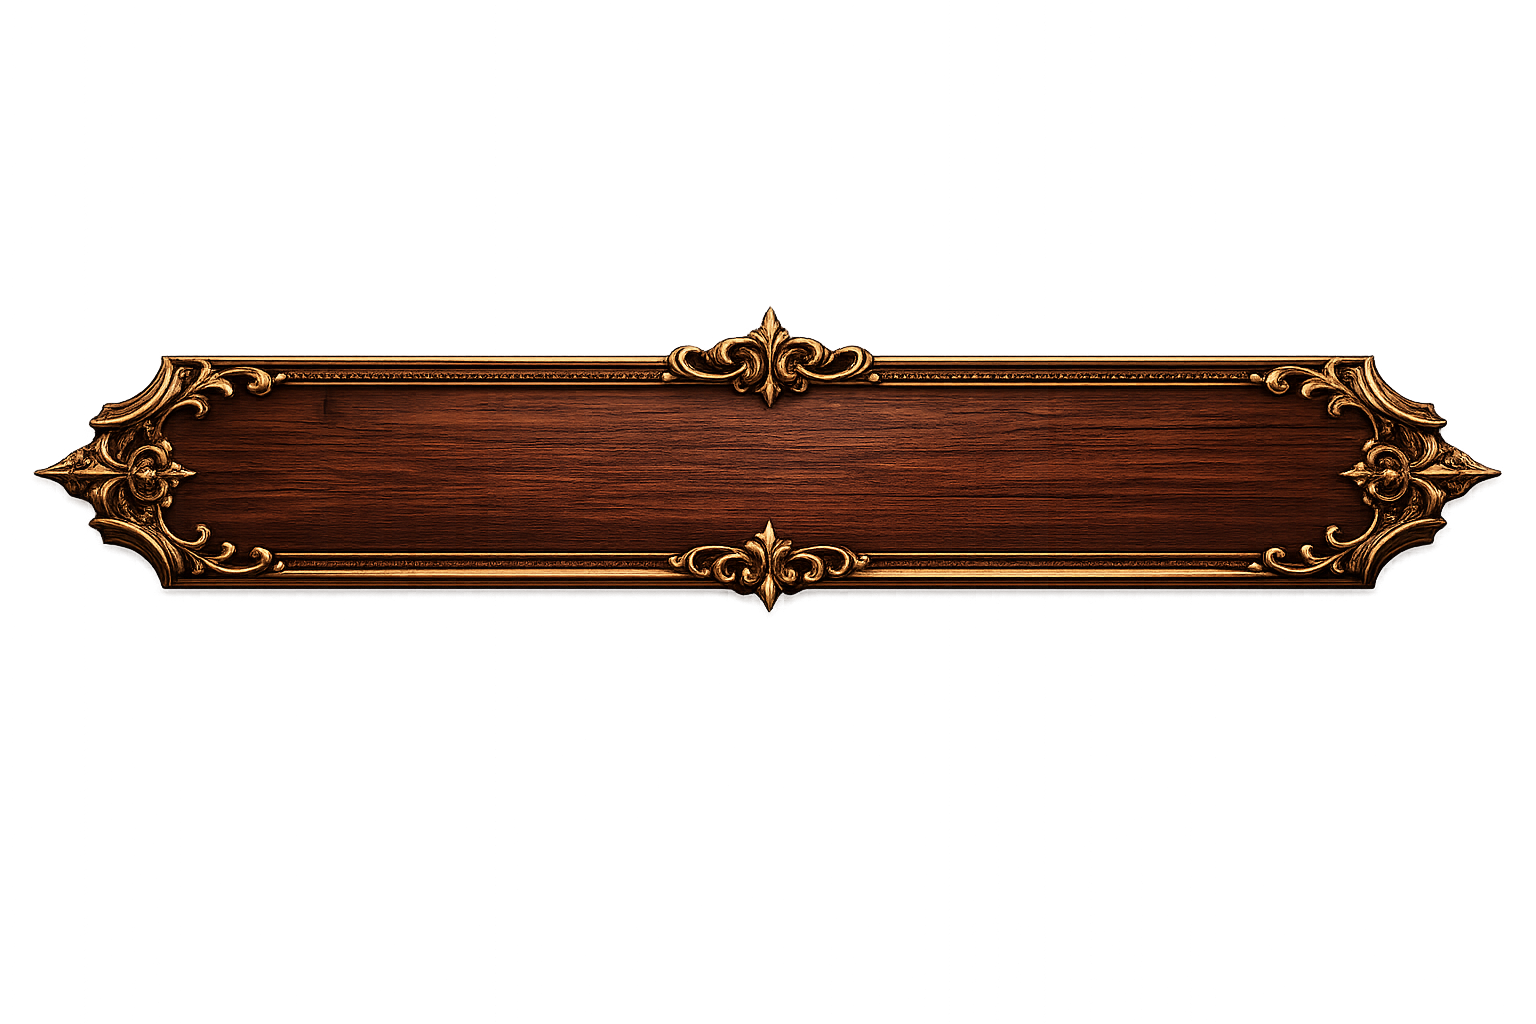
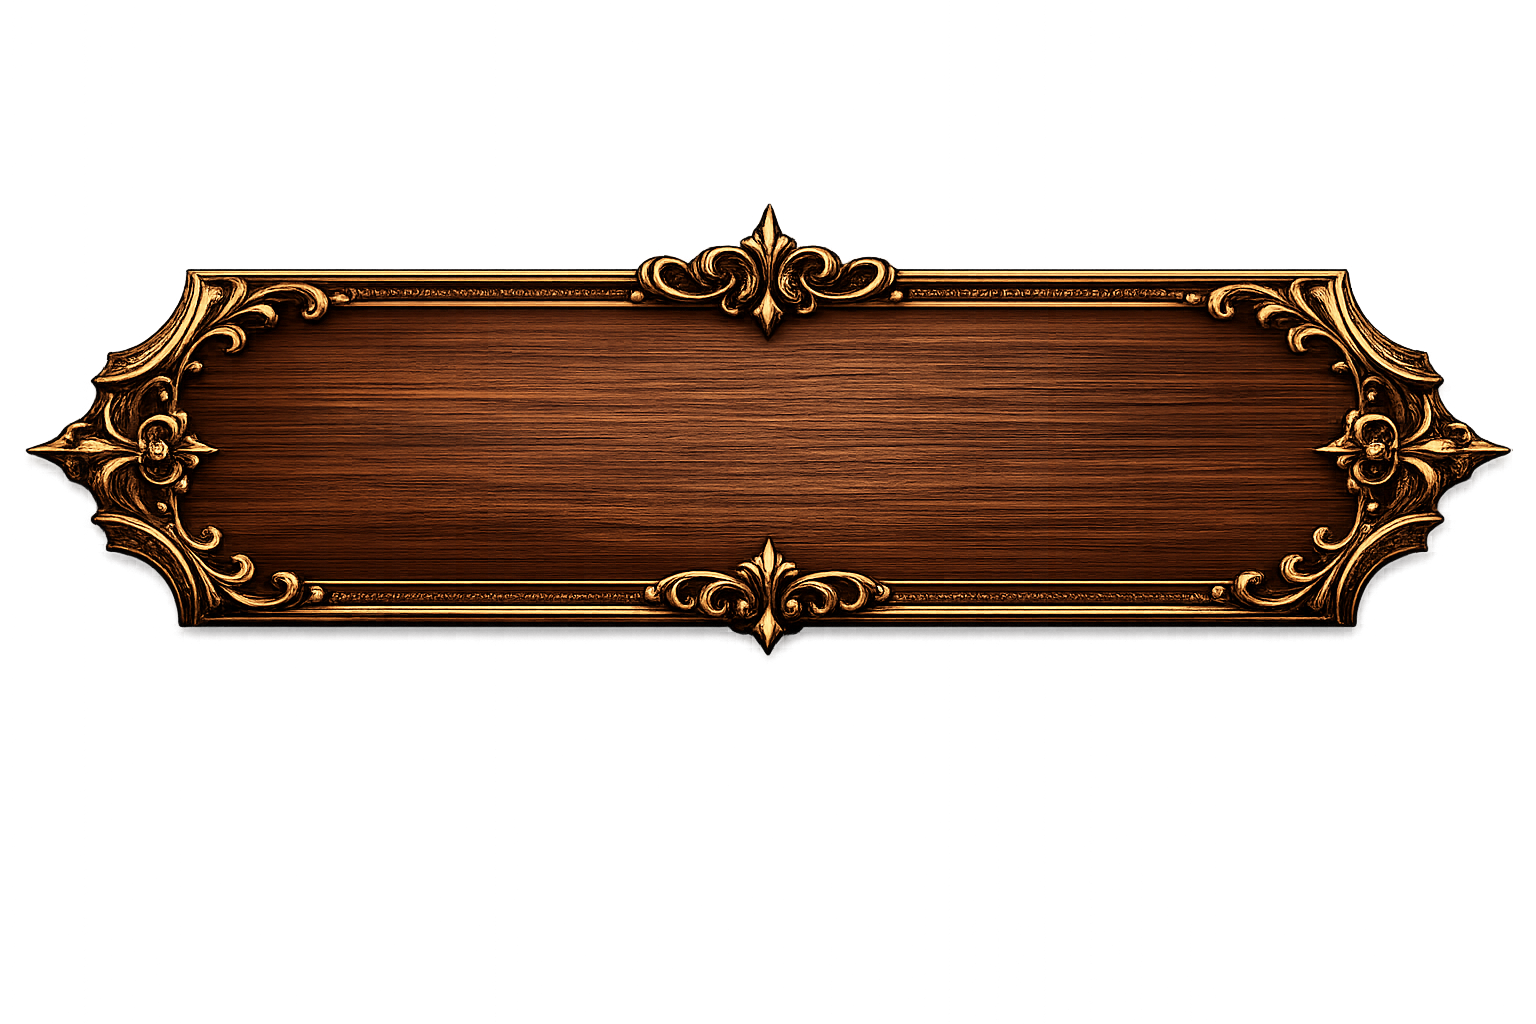
feat: introduce FrameToggle and update Collection page UI

Changed region(s): [[0.0, 0.2188, 1.0, 0.6562]]

diff --git a/app/collection/page.tsx b/app/collection/page.tsx
@@ -9,7 +9,7 @@ import { GameList } from "@/components/game-list"
 import { DiscoverGames } from "@/components/discover-games"
 import { ImportSection } from "@/components/import-section"
 import { ThemeHero } from "@/components/theme-hero"
-import { FrameButton } from "@/components/frame-button"
+import { FrameButton, FrameToggle } from "@/components/frame-button"
 import { Filter, Loader2 } from "lucide-react"
 import { useToast } from "@/hooks/use-toast"
 import { useTranslations } from "@/lib/i18n"
@@ -164,44 +164,48 @@ export default function Collection() {
   return (
     <div className="min-h-screen">
       <main className="container mx-auto px-4 py-8">
-        <ThemeHero page="collection" title={t("collection.title")} subtitle={t("collection.subtitle")}>
-          <div className="flex justify-center gap-3">
-            <FrameButton
-              active={activeTab === "my-games"}
-              aria-pressed={activeTab === "my-games"}
-              onClick={() => setActiveTab("my-games")}
-            >
-              {t("collection.myGames")}
-            </FrameButton>
-            <FrameButton
-              active={activeTab === "find-games"}
-              aria-pressed={activeTab === "find-games"}
-              onClick={() => setActiveTab("find-games")}
-            >
-              {t("collection.findGames")}
-            </FrameButton>
+        <ThemeHero page="collection" mode="backdrop">
+          <div className="mb-8 flex justify-center">
+            <FrameToggle
+              value={activeTab}
+              onChange={(value) => setActiveTab(value)}
+              options={[
+                { value: "my-games", label: t("collection.myGames") },
+                { value: "find-games", label: t("collection.findGames") },
+              ]}
+            />
           </div>
+
+          {activeTab === "my-games" ? (
+            <>
+              <CollectionHeader
+                viewMode={viewMode}
+                setViewMode={setViewMode}
+                searchQuery={searchQuery}
+                setSearchQuery={setSearchQuery}
+                selectedCategory={selectedCategory}
+                setSelectedCategory={setSelectedCategory}
+                statusFilter={statusFilter}
+                setStatusFilter={setStatusFilter}
+                sortBy={sortBy}
+                setSortBy={setSortBy}
+                onAddGame={() => router.push("/collection/add")}
+                onImport={() => {}}
+                categoryCounts={categoryCounts}
+                statusCounts={statusCounts}
+              />
+
+              <div>
+                <FrameButton onClick={() => setShowFilters(!showFilters)} icon={<Filter className="h-4 w-4" />}>
+                  {showFilters ? t("collection.hideFilters") : t("collection.showFilters")}
+                </FrameButton>
+              </div>
+            </>
+          ) : null}
         </ThemeHero>
 
         {activeTab === "my-games" ? (
           <>
-            <CollectionHeader
-              viewMode={viewMode}
-              setViewMode={setViewMode}
-              searchQuery={searchQuery}
-              setSearchQuery={setSearchQuery}
-              selectedCategory={selectedCategory}
-              setSelectedCategory={setSelectedCategory}
-              statusFilter={statusFilter}
-              setStatusFilter={setStatusFilter}
-              sortBy={sortBy}
-              setSortBy={setSortBy}
-              onAddGame={() => router.push("/collection/add")}
-              onImport={() => {}}
-              categoryCounts={categoryCounts}
-              statusCounts={statusCounts}
-            />
-
             {selectedCategory !== "all" && (
               <ImportSection selectedCategory={selectedCategory as Exclude<CategoryType, "all">} />
             )}
@@ -213,14 +217,6 @@ export default function Collection() {
                 </div>
               )}
               <div className={showFilters ? "lg:col-span-3" : "lg:col-span-4"}>
-                <div className="mb-4">
-                  <FrameButton
-                    onClick={() => setShowFilters(!showFilters)}
-                    icon={<Filter className="h-4 w-4" />}
-                  >
-                    {showFilters ? t("collection.hideFilters") : t("collection.showFilters")}
-                  </FrameButton>
-                </div>
                 {loading ? (
                   <div className="flex items-center justify-center py-16">
                     <Loader2 className="h-8 w-8 animate-spin text-accent-gold" />
@@ -236,8 +232,6 @@ export default function Collection() {
                 )}
               </div>
             </div>
-
-            
           </>
         ) : (
           <DiscoverGames onToggleWishlist={handleToggleWishlist} />

diff --git a/components/theme-hero.tsx b/components/theme-hero.tsx
@@ -6,26 +6,35 @@ import { useAppTheme } from "@/components/app-theme-provider"
 import { getPageHeroCandidates } from "@/lib/theme-assets"
 
 /**
- * ThemeHero — per-page, per-theme hero banner that REPLACES a page's old text
- * header block. Shows the page title once over a themed image, removing the
- * previous duplicated headings (e.g. collection's "Pelikokoelma" + "Kokoelmani").
+ * ThemeHero — per-page, per-theme hero IMAGE that replaces a page's old text
+ * header block.
+ *
+ * Modes:
+ *  - "banner"   : centered title/subtitle over the image (default; for pages
+ *                 that still want a headline rendered on the hero).
+ *  - "backdrop" : the image is purely a background spanning ALL children, with
+ *                 no overlaid title. Used by the collection page so the hero
+ *                 reaches from the top down past the page controls. The page's
+ *                 own headings (e.g. "Kokoelmani") render normally on top.
  *
  * The image source is resolved from lib/theme-assets. Because a 404 can't be
- * detected at SSR time, we attach an onError handler that walks the remaining
- * candidate paths so a missing per-page hero gracefully degrades to the theme's
- * main hero, then to a known-good image.
+ * detected at SSR time, an onError handler walks the remaining candidate paths
+ * so a missing per-page hero degrades to the theme's main hero, then to a
+ * known-good image.
  */
 
 interface ThemeHeroProps {
   /** Page key used to resolve /images/heroes/{page}/{theme}.jpg */
   page: string
-  title: string
+  mode?: "banner" | "backdrop"
+  title?: string
   subtitle?: string
-  /** Optional content rendered below the title inside the hero (e.g. a toggle). */
+  /** Content rendered inside the hero (a toggle in banner mode, the whole header block in backdrop mode). */
   children?: React.ReactNode
+  className?: string
 }
 
-export function ThemeHero({ page, title, subtitle, children }: ThemeHeroProps) {
+export function ThemeHero({ page, mode = "banner", title, subtitle, children, className }: ThemeHeroProps) {
   const { currentAppTheme } = useAppTheme()
   const candidates = useMemo(() => getPageHeroCandidates(page, currentAppTheme), [page, currentAppTheme])
   const idxRef = useRef(0)
@@ -39,7 +48,11 @@ export function ThemeHero({ page, title, subtitle, children }: ThemeHeroProps) {
   }
 
   return (
-    <section className="relative -mx-4 mb-8 overflow-hidden rounded-b-2xl border-b border-accent-gold/30 shadow-lg">
+    <section
+      className={
+        "relative -mx-4 mb-8 overflow-hidden rounded-b-2xl border-b border-accent-gold/30 shadow-lg " + (className ?? "")
+      }
+    >
       {/* Hero image */}
       <img
         src={candidates[0] || "/placeholder.svg"}
@@ -48,21 +61,26 @@ export function ThemeHero({ page, title, subtitle, children }: ThemeHeroProps) {
         onError={handleError}
         className="absolute inset-0 h-full w-full object-cover"
       />
-      {/* Legibility scrim — darkens edges and bottom so gold text reads cleanly */}
-      <div className="absolute inset-0 bg-gradient-to-b from-background/70 via-background/30 to-background/85" />
+      {/* Legibility scrim — darkens so gold text/controls read cleanly over the image */}
+      <div className="absolute inset-0 bg-gradient-to-b from-background/75 via-background/45 to-background/90" />
 
-      {/* Content */}
-      <div className="relative z-10 flex min-h-[200px] flex-col items-center justify-center px-4 py-10 text-center sm:min-h-[240px] md:min-h-[280px]">
-        <h1 className="logo-text text-4xl font-bold drop-shadow-[0_2px_6px_rgba(0,0,0,0.9)] sm:text-5xl text-balance">
-          {title}
-        </h1>
-        {subtitle ? (
-          <p className="font-body mt-3 max-w-2xl text-base text-foreground/90 drop-shadow-[0_1px_4px_rgba(0,0,0,0.9)] sm:text-lg text-pretty">
-            {subtitle}
-          </p>
-        ) : null}
-        {children ? <div className="mt-6 w-full">{children}</div> : null}
-      </div>
+      {mode === "banner" ? (
+        <div className="relative z-10 flex min-h-[200px] flex-col items-center justify-center px-4 py-10 text-center sm:min-h-[240px] md:min-h-[280px]">
+          {title ? (
+            <h1 className="logo-text text-4xl font-bold drop-shadow-[0_2px_6px_rgba(0,0,0,0.9)] sm:text-5xl text-balance">
+              {title}
+            </h1>
+          ) : null}
+          {subtitle ? (
+            <p className="font-body mt-3 max-w-2xl text-base text-foreground/90 drop-shadow-[0_1px_4px_rgba(0,0,0,0.9)] sm:text-lg text-pretty">
+              {subtitle}
+            </p>
+          ) : null}
+          {children ? <div className="mt-6 w-full">{children}</div> : null}
+        </div>
+      ) : (
+        <div className="relative z-10 px-4 py-8 sm:px-6">{children}</div>
+      )}
     </section>
   )
 }

diff --git a/components/frame-button.tsx b/components/frame-button.tsx
@@ -42,7 +42,7 @@ export const FrameButton = forwardRef<HTMLButtonElement, FrameButtonProps>(funct
       className={cn(
         "relative inline-flex items-center justify-center transition-all hover:scale-105 active:scale-100 disabled:opacity-50 disabled:hover:scale-100 disabled:cursor-not-allowed",
         active && "brightness-125",
-        variant === "icon" ? "w-12 h-12" : "h-12 px-6 min-w-[7rem]",
+        variant === "icon" ? "w-14 h-14" : "h-14 px-10 min-w-[9rem]",
         className,
       )}
       {...props}
@@ -50,10 +50,69 @@ export const FrameButton = forwardRef<HTMLButtonElement, FrameButtonProps>(funct
       {/* Gold frame art */}
       <img src={frameSrc || "/placeholder.svg"} alt="" aria-hidden="true" className="absolute inset-0 w-full h-full object-fill pointer-events-none select-none" />
       {/* Label / icon */}
-      <span className="relative z-10 inline-flex items-center justify-center gap-2 font-cinzel text-xs sm:text-sm uppercase tracking-wide text-center text-accent-gold font-semibold drop-shadow-[0_1px_2px_rgba(0,0,0,0.8)]">
+      <span className="relative z-10 inline-flex items-center justify-center gap-2 font-cinzel text-sm sm:text-base uppercase tracking-wide text-center text-accent-gold font-semibold drop-shadow-[0_1px_2px_rgba(0,0,0,0.8)]">
         {icon}
         {children}
       </span>
     </button>
   )
 })
+
+/**
+ * FrameToggle — a single gold frame image acting as the decorative container,
+ * with a CSS segmented two-option toggle sitting transparently inside it.
+ * Matches the user's request: "css segmented toggle live inside one image".
+ */
+interface FrameToggleOption<T extends string> {
+  value: T
+  label: string
+}
+
+interface FrameToggleProps<T extends string> {
+  options: [FrameToggleOption<T>, FrameToggleOption<T>]
+  value: T
+  onChange: (value: T) => void
+  className?: string
+}
+
+export function FrameToggle<T extends string>({ options, value, onChange, className }: FrameToggleProps<T>) {
+  const { currentAppTheme } = useAppTheme()
+  const frameSrc = getButtonFrame(currentAppTheme)
+
+  return (
+    <div className={cn("relative inline-flex h-16 min-w-[20rem] items-center justify-center px-10", className)}>
+      {/* Decorative gold frame */}
+      <img
+        src={frameSrc || "/placeholder.svg"}
+        alt=""
+        aria-hidden="true"
+        className="absolute inset-0 h-full w-full object-fill pointer-events-none select-none"
+      />
+      {/* Transparent segmented toggle */}
+      <div
+        role="tablist"
+        className="relative z-10 inline-flex items-center gap-1 rounded-full border border-accent-gold/40 bg-background/40 p-1 backdrop-blur-sm"
+      >
+        {options.map((opt) => {
+          const isActive = opt.value === value
+          return (
+            <button
+              key={opt.value}
+              role="tab"
+              aria-selected={isActive}
+              onClick={() => onChange(opt.value)}
+              className={cn(
+                "rounded-full px-4 py-1.5 font-cinzel text-xs sm:text-sm uppercase tracking-wide transition-colors",
+                isActive
+                  ? "bg-accent-gold text-background font-semibold shadow"
+                  : "text-accent-gold/80 hover:text-accent-gold",
+              )}
+            >
+              {opt.label}
+            </button>
+          )
+        })}
+      </div>
+    </div>
+  )
+}

diff --git a/lib/supabase/client.ts b/lib/supabase/client.ts
@@ -1,8 +1,16 @@
 import { createBrowserClient } from '@supabase/ssr'
 
 export function createClient() {
+  const supabaseUrl = process.env.NEXT_PUBLIC_SUPABASE_URL
+  const supabaseAnonKey = process.env.NEXT_PUBLIC_SUPABASE_ANON_KEY
+
+  // In environments where the Supabase env vars are not present (e.g. the v0
+  // preview sandbox), createBrowserClient throws and takes the whole page down.
+  // Production has these vars set, so this guard never triggers there. When they
+  // are missing we fall back to harmless placeholder values so the UI can still
+  // render for design/preview work (data calls simply won't succeed).
   return createBrowserClient(
-    process.env.NEXT_PUBLIC_SUPABASE_URL!,
-    process.env.NEXT_PUBLIC_SUPABASE_ANON_KEY!,
+    supabaseUrl ?? 'https://placeholder.supabase.co',
+    supabaseAnonKey ?? 'placeholder-anon-key',
   )
 }

diff --git a/lib/supabase/server.ts b/lib/supabase/server.ts
@@ -8,9 +8,11 @@ import { cookies } from 'next/headers'
 export async function createClient() {
   const cookieStore = await cookies()
 
+  // Fall back to placeholder values when env vars are absent (preview sandbox)
+  // so server components render instead of throwing. Production is unaffected.
   return createServerClient(
-    process.env.NEXT_PUBLIC_SUPABASE_URL!,
-    process.env.NEXT_PUBLIC_SUPABASE_ANON_KEY!,
+    process.env.NEXT_PUBLIC_SUPABASE_URL ?? 'https://placeholder.supabase.co',
+    process.env.NEXT_PUBLIC_SUPABASE_ANON_KEY ?? 'placeholder-anon-key',
     {
       cookies: {
         getAll() {